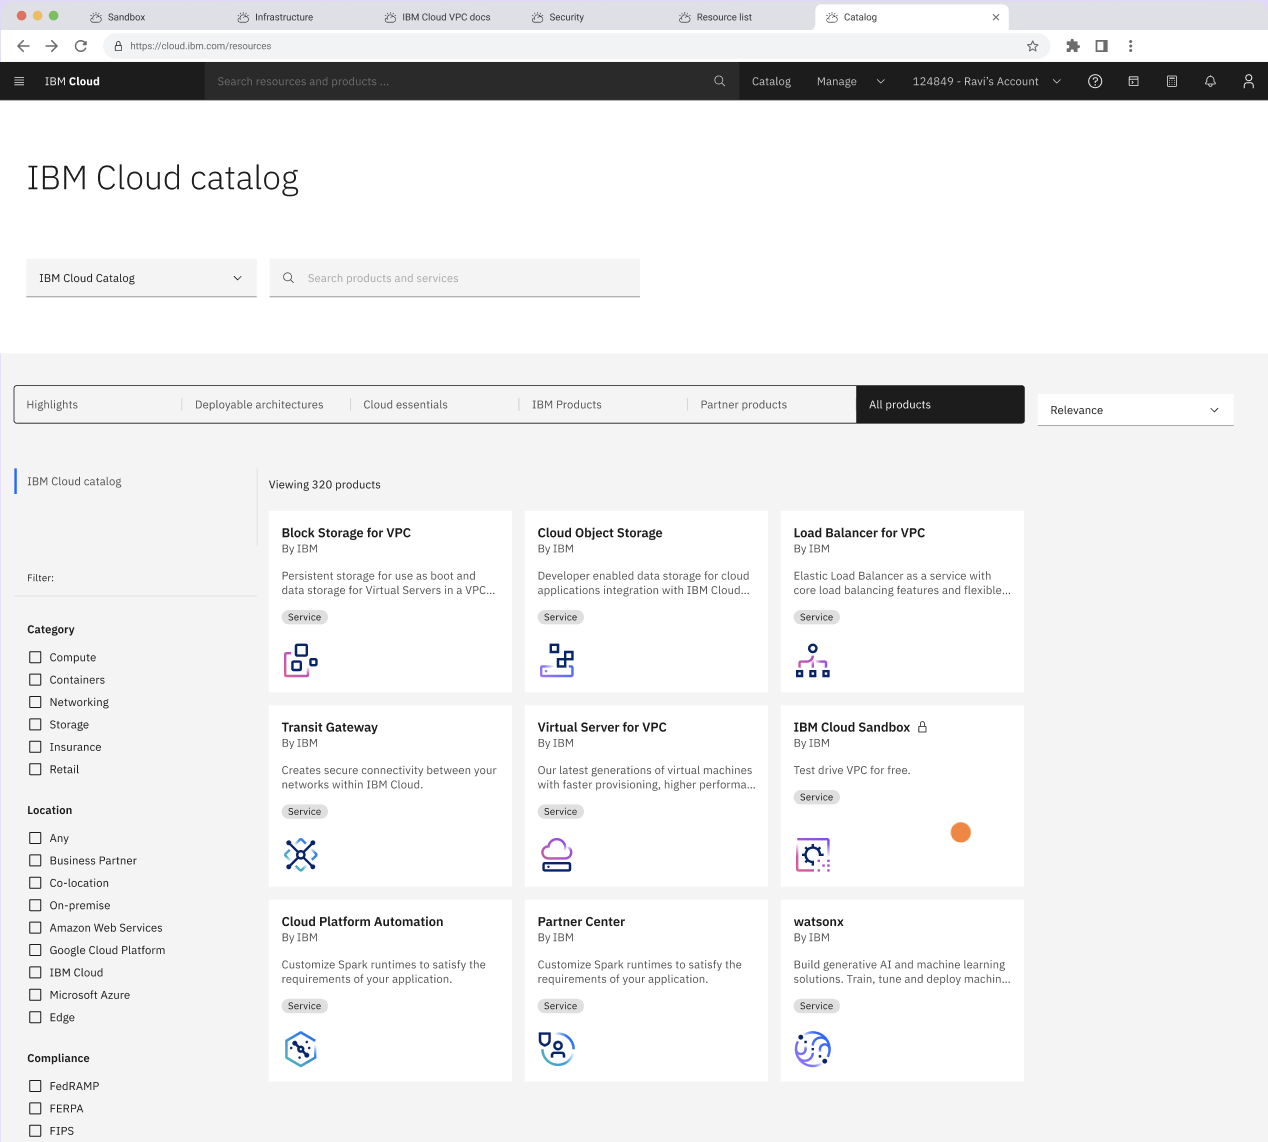
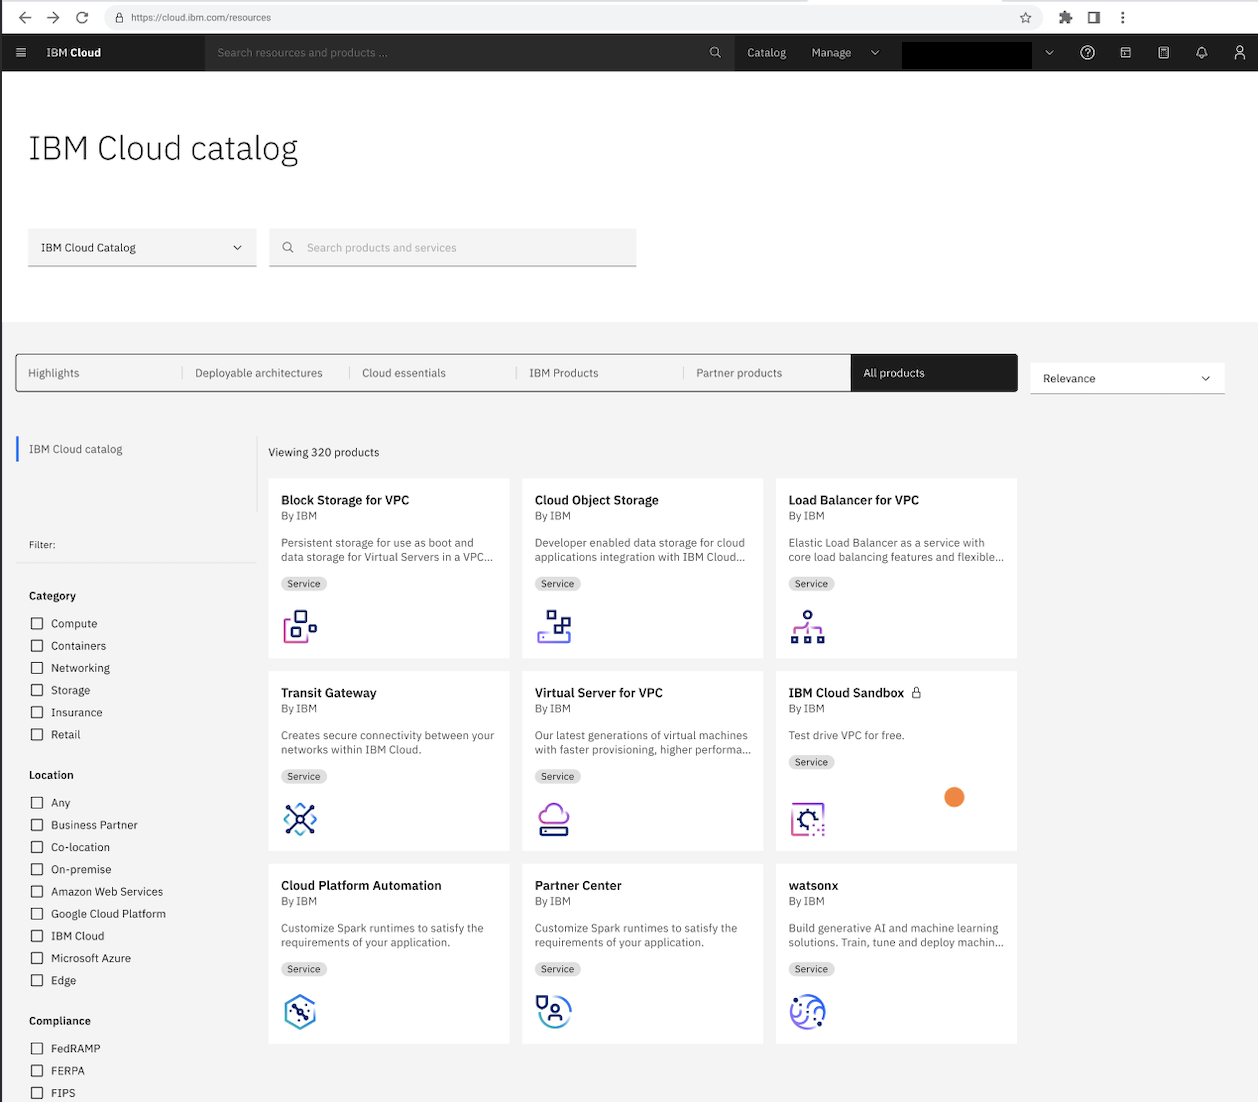
Update: 15-04-2026

diff --git a/deploying-sandbox.md b/deploying-sandbox.md
@@ -2,7 +2,7 @@
 
 copyright:
   years: 2026
-lastupdated: "2026-04-14"
+lastupdated: "2026-04-15"
 
 keywords:
 
@@ -20,12 +20,12 @@ content-type: release-note
 
 The solution uses the IBM Cloud Catalog service to ensure a unified and consistent approach.
 
+Setting IAM permissions - UI
+
 ## Creating the account using UI
 {: #create-ui}
 
 1. An email notification is sent to the allowlisted customers to access the {{site.data.keyword.vpc_short}} environment using the new **IBM Cloud Sandbox**. This is a cost-free configuration.
-
-    ![Sandbox - Email notification](images/sandbox-email-notification.png "Sandbox - Email notification"){: caption="Sandbox - Email notification" caption-side="bottom"}
 
 2. After clicking the **Request** button on the email, you will be navigated to the [IBM Cloud catalog](https://cloud.ibm.com/catalog#highlights). Search for Sandbox offering.
 
@@ -35,9 +35,9 @@ The solution uses the IBM Cloud Catalog service to ensure a unified and consiste
     * **Sandbox name** - Name of the sandbox instance.
     * **Region** - Region where the instance is provisioned.
     * **Resource group** - Name from your IBM Cloud account where the VPC resources must be deployed.
-    * **Tags (optional)**
+    * **Tags (optional)** - These the key-value labels used to organize, filter, and manage cloud resources efficiently.
 
-    ![Sandbox - Details](images/sandbox-details.png "Sandbox - Details"){: caption="Sandbox - Details" caption-side="bottom"}
+    ![Sandbox - Create account](images/sandbox-create-account.png "Sandbox - Catalog page"){: caption="Sandbox - Catalog page" caption-side="bottom"}
 
 4. In the **Users** section, the creation page allows users to initiate Sandbox provisioning. Only one active sandbox is permitted per allowlisted customer account. Region selection applies only to IAM-based resource restrictions, not sandbox provisioning.
 
@@ -65,9 +65,15 @@ The solution uses the IBM Cloud Catalog service to ensure a unified and consiste
 
 13. Select the instance profile.
 
+    ![Sandbox - Instance profile](images/sandbox-select-instance-profile.png "Sandbox - Instance profile"){: caption="Sandbox - Instance profile" caption-side="bottom"}
+
 14. Select an image for the available operating system.
 
+    ![Sandbox - Image selection](images/sandbox-select-image.png "Sandbox - Image selection"){: caption="Sandbox - Image selection" caption-side="bottom"}
+
 15. In the Resource list, you can see all the resources that you have created.
+
+    ![Sandbox - Resource page](images/sandbox-resource-page.png "Sandbox - Resource page"){: caption="Sandbox - Resource page" caption-side="bottom"}
 
 16. In the **Manage Sandbox**, you can save the configuration by downloading the Terraform package and running the same in the customer account.
 

diff --git a/faq.md b/faq.md
@@ -2,7 +2,7 @@
 
 copyright:
   years: 2026
-lastupdated: "2026-04-14"
+lastupdated: "2026-04-15"
 
 keywords:
 
@@ -14,7 +14,7 @@ content-type: faq
 
 {{site.data.keyword.attribute-definition-list}}
 
-# FAQ
+# FAQs
 {: #my-service-faq}
 
 This document provides a list of frequently asked questions and answers about a specific topic for IBM Cloud Sandbox.